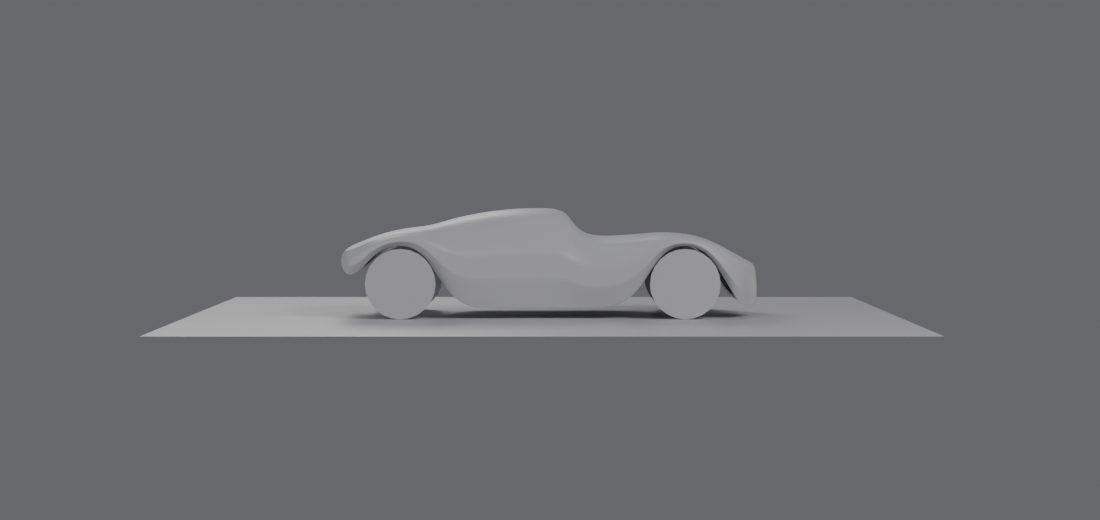
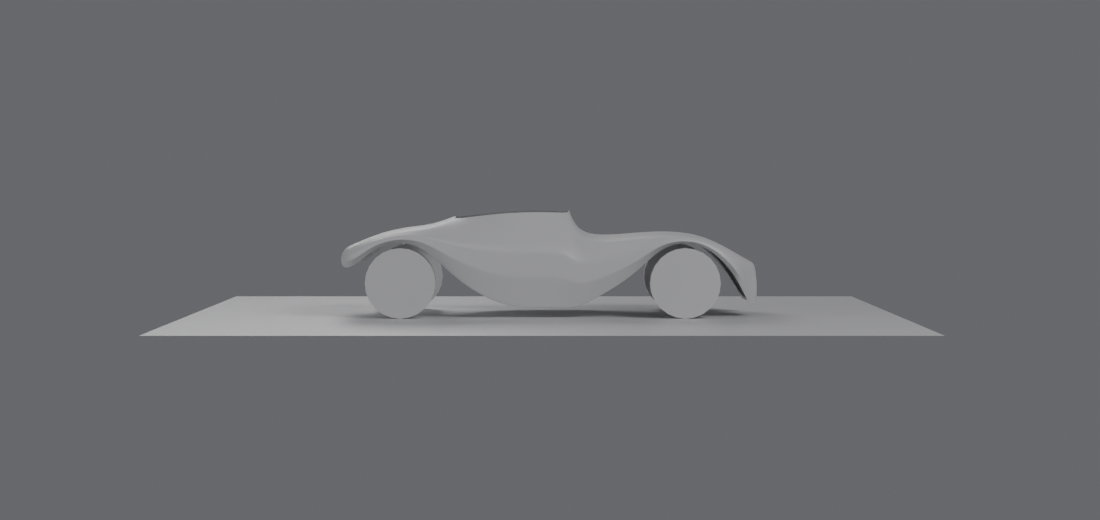
Open the cockpit, enlarge the arches, and mirror lessons into the repo
The reference body is an open shell whose character comes from its openings,
so the cage now leaves the band between the centreline and the top-surface
edge unbuilt through the cabin. That aperture is also what lets the canopy be
separate glass, which is the order the body is meant to be built in — glass
shrinkwrapped on after the body form settles. Loose vertices left by the
skipped faces are cleaned up rather than shipped.

Arches widen from 0.500 to 0.560 half-width, lifting wheel clearance from
26mm to 43mm.

Also mirrors the skill's workflow-lessons into docs/. The live copy sits in the
session container under /root/.claude/skills/synced/, which is reclaimed when
the session ends and has no version control or sync-back — so two days of
recorded conventions and corrections were sitting somewhere disposable. The
repo copy is the durable one.

Claude-Session: https://claude.ai/code/session_01Xx3q3FEn98y7dLvRCxTUeL

diff --git a/models/car_blockout.py b/models/car_blockout.py
@@ -40,8 +40,8 @@ PROPORTIONS = {
     "track_half_rear":  0.797,
 
     "sill":             0.091,
-    "arch_front":       (0.500, 0.629),  # half-width along X, height above sill
-    "arch_rear":        (0.500, 0.629),
+    "arch_front":       (0.560, 0.640),  # half-width along X, height above sill
+    "arch_rear":        (0.560, 0.640),
 
     # The fender turning inboard into the wheel well, so the arch has thickness
     # rather than ending on a bare edge.
@@ -65,6 +65,18 @@ RING = {"top_centre": 0, "top_edge": 1, "shoulder": 2,
 # and two thirds of the creased edges at 0.90 or above. Matching that profile
 # means the outline AND the character line are effectively hard, with only the
 # shoulder and top edge left partial.
+# The cockpit aperture: the band between the centreline and the top-surface
+# edge is left open through the cabin, so the canopy can be separate glass —
+# which is also the order the body is built in, glass shrinkwrapped on after
+# the body form settles.
+COCKPIT = (-0.90, 0.30)
+
+
+def _skip(x0, x1, ring):
+    lo, hi = COCKPIT
+    return ring == 0 and lo <= x0 <= hi and lo <= x1 <= hi
+
+
 CREASES = {
     RING["lip_inner"]: 1.00,
     RING["sill"]:      0.99,
@@ -192,7 +204,7 @@ def build(p=None, ground=True):
 
     me = bpy.data.meshes.new("body_side")
     bm = vehicle_cage.build_cage(STATIONS, lambda r: station_rings(r, p), CREASES,
-                                 cap_ends=True)
+                                 cap_ends=True, skip=_skip)
     bm.to_mesh(me)
     bm.free()
 

diff --git a/models/vehicle_cage.py b/models/vehicle_cage.py
@@ -34,7 +34,7 @@ def check_folds(stations, rings_fn):
     return bad
 
 
-def build_cage(stations, rings_fn, creases, cap_ends=False):
+def build_cage(stations, rings_fn, creases, cap_ends=False, skip=None):
     """Loft the stations into an all-quad cage and crease the named lines.
 
     `creases` maps ring index to crease value. The outline — the boundary loop
@@ -47,6 +47,12 @@ def build_cage(stations, rings_fn, creases, cap_ends=False):
 
     for s in range(len(grid) - 1):
         for r in range(len(grid[0]) - 1):
+            # `skip` leaves a hole rather than a surface — the cockpit
+            # aperture. The reference body is an open shell, not a closed
+            # volume: its character comes from the openings, and no amount of
+            # profile tuning makes a closed lozenge read the same way.
+            if skip and skip(stations[s]["x"], stations[s + 1]["x"], r):
+                continue
             bm.faces.new((grid[s][r], grid[s][r + 1],
                           grid[s + 1][r + 1], grid[s + 1][r]))
 
@@ -64,6 +70,10 @@ def build_cage(stations, rings_fn, creases, cap_ends=False):
             edge = bm.edges.get((grid[s][ring], grid[s + 1][ring]))
             if edge is not None:
                 edge[crease_layer] = value
+
+    loose = [v for v in bm.verts if not v.link_faces]
+    if loose:
+        bmesh.ops.delete(bm, geom=loose, context='VERTS')
 
     bmesh.ops.recalc_face_normals(bm, faces=bm.faces)
     return bm

diff --git a/docs/workflow-lessons.md b/docs/workflow-lessons.md
@@ -1,0 +1,149 @@
+# Workflow lessons — mirrored from the blender-car-modeler skill
+
+The live copy lives in the skill's `references/workflow-lessons.md`, inside the
+session container, which is reclaimed when the session ends. This mirror is the
+durable one. Copy it back into the skill at the start of a session, and mirror
+any new lessons back here before the session ends.
+
+---
+
+# This user's workflow, conventions, and lessons learned
+
+This file is the memory of everything learned working with this specific user in Blender. It starts mostly empty — that's expected on day one. The point isn't to fill it out in one sitting; it's to add one line whenever a real correction or preference actually comes up, so the next session doesn't repeat the same mistake or ask the same question twice.
+
+**How to add to this file:** when the user corrects an approach, states a convention, or flags something as a repeated mistake, add a short, concrete line to the right section below — their words or a close paraphrase, not a long writeup. If a section starts getting cluttered with near-duplicate entries, consolidate them into one clearer line instead of letting it sprawl.
+
+## Modeling conventions
+
+**Build order (stated 2026-09-01, their core method):**
+1. Body side first — the side profile/panel is the starting surface, not the hood or arches.
+2. Wheels in early as simple cylinders, purely to judge proportion and stance.
+3. Front, then back — modelled to meet the already-established side.
+4. Once the form is good: duplicate the body and shrinkwrap it to make the
+   windscreen. This is deliberate — glass that derives from the body surface
+   gives a correct reflection sweep and preserves the intended overall form,
+   rather than a separately-modelled screen that fights the body line.
+5. As the design matures, add wheel detail and lamp data.
+6. Basic interior, blocked in early so it can be iterated on later.
+
+Expect several iterations — the form is refined in loops, not in one pass.
+
+**Fewest possible edges — stated as general for ALL basic vehicles
+(2026-09-01).** Crease the OUTLINE — wheel-arch lip, sill, the design lines —
+and leave the surface between those outlines smooth and empty. Definition comes
+from creasing, never from adding loops. The reason is editability: the fewer
+points there are, the easier the form is to push around, and a form goes
+through many iterations.
+
+Corrected in the same session after getting this backwards: the stacked
+parallel loops visible along the sill of their cage were read as support loops,
+and support loops were added throughout. Measured afterwards, they bought
+nothing — arch crown 0.702 with them, 0.703 without, for 2.6x the faces. Do not
+add a loop to firm up an edge. Raise its crease.
+
+Also delete stations that do not change the form, but measure before removing:
+three came out of the PIX3L side with length, height and arch clearance
+identical to the millimetre, while one that looked equally redundant was
+carrying the canopy crown and cost 38mm of height when dropped.
+
+**Low poly + Subdivision Surface + Mirror is the default, always.** Build a
+light all-quad control cage and let Subsurf do the smoothing — do not model
+dense geometry directly. Mirror across the centreline rather than modelling
+both sides. Modifier order is Mirror then Subsurf, and the mirror needs
+clipping on so the centreline seam welds instead of splitting open under
+subdivision.
+
+**Their `body` object is an OPEN hard-surface shell, not a closed volume
+(2026-09-02).** Rendered on its own it has huge see-through wheel-arch cutouts,
+a thin blade sill, no roof — the canopy is separate `Glass` and
+`FR_WINDSCREEN` objects — and hard creased facets throughout. Building the body
+as a closed smooth lozenge and expecting it to read like the reference is
+hopeless: the character comes from the openings and the panel edges. Model the
+body with the cockpit open and the arches cut large, then add glass separately.
+
+**Their crease values, recovered from the raw .blend (2026-09-02):** 45% of
+edges creased, median 0.99, and 67% of creased edges at 0.90 or above, with a
+long soft tail from 0.09 to 0.6. They crease FAR harder than first assumed —
+the outline and the character line are effectively hard at 0.99/1.0, and only
+secondary lines get partial values. Earlier defaults of 0.85/0.55/0.50 were far
+too soft.
+
+Recovering them needed the raw file: their Blender is newer, so bpy loads the
+mesh with the crease attribute present but holding zero values, and the mesh
+will not even allocate a replacement layer. The route that worked was
+decompressing the .blend (zstd, multi-frame — needs read_across_frames) and
+reading the float array after the "crease_edge" string, verified by its length
+matching the edge count exactly. Rebuilding the mesh with from_pydata and
+mapping creases by vertex-pair sidesteps the unallocatable layer.
+
+**Measured off Concept_Model_WIP4.blend (2026-09-01) — their actual practice:**
+- Canopy crowns at the MIDDLE of the wheelbase, not forward of it. Do not
+  assume cab-forward on a mid-engine silhouette.
+- Body pinches in through the cabin and bulges at both arches (0.824 against
+  0.90 half-width), rather than running near-constant width.
+- Wheel outer face sits flush with the widest point of the body.
+- Their cage is NOT strictly all-quads: 177 faces carrying 2 triangles, 3
+  pentagons and one 9-gon. All-quad is a preference, not a rule to enforce.
+- Mirror clipping is OFF, with merge threshold 0.01. Subsurf runs 5/5.
+- Windscreen is a separate 18-face patch: Mirror, then Subsurf 5/5 with
+  boundary smoothing ALL (not preserve-corners), then Shrinkwrap onto `body`
+  using NEAREST_SURFACEPOINT / ON_SURFACE with a 1mm offset. This is the
+  "copy the body and shrinkwrap" step they described on day one.
+- Their working envelope is 4026mm long on a 2702mm wheelbase with 732/593
+  overhangs and a 1072mm roof — NOT the 4519mm Porsche envelope named earlier.
+  Ask which governs when the two conflict.
+
+## Recurring mistakes to avoid
+
+- Do not build body panels as triangulated n-gons or extruded flat profiles.
+  Corrected 2026-09-01: the first blockout attempt filled a closed outline and
+  triangulated it, which is unusable under Subsurf. Build a quad cage instead.
+- **Never model without reference.** Corrected 2026-09-01, and this was the
+  worst error of the session: three commits of confident geometry were built on
+  invented proportions (2650mm wheelbase against a real 911's 2450mm). Stating
+  "here are my assumed proportions" is NOT a substitute for reference. Ask for
+  reference images, or pull real published dimensions, before the first vertex.
+- Sample reference geometry in a WHEELBASE-CENTRED frame. Their file's origin
+  is not at the wheelbase centre (axles at -1.471/+1.231, midpoint -0.120), so
+  sampling against assumed axle positions shifted an entire profile 120mm along
+  the car relative to its own wheels.
+- Author ring heights as fractions of the span between the top surface and the
+  sill, never as fixed absolute heights. Fixed heights fold the cage wherever
+  the sill lifts into an arch — it happened twice, and both times check_folds
+  caught what the render did not.
+- Do not react to a render before checking the numbers. Twice on day one a
+  render was misread as a geometry bug when the geometry measured correct
+  (unlit cavities reading as holes, a cropped frame reading as a rotation).
+  Measure, then judge.
+
+## Preferences & workflow
+
+- Works in iterative loops and expects refinement passes, not one-shot results.
+- **Udin Optic is a generative design tool that ships as a Blender ADDON**,
+  backed by a subscription (udinbv.com / optic.udinbv.com). It is not an API
+  and never will be something Claude calls: it runs in a Blender GUI, on their
+  machine, under their subscription, and their tenant
+  (toyota-au.udinbv.com/optic/) sits behind Toyota SSO. The domain is also
+  blocked by this environment's egress allowlist. Do not ask again how to
+  "reach Udin" — the answer is that only they can run it.
+  The working loop: Claude builds and renders the blockout, they run the render
+  through Optic, they paste the generated design back into chat, Claude
+  executes it as geometry. tools/preview.py already emits clay views suitable
+  as Optic input.
+- End goal is animation via Higgsfield, so models should be built ready to hand
+  off for animation.
+- Sends reference as images pasted into chat — this works well and is the main
+  reference channel. Claude cannot fetch images from the web (egress blocked,
+  WebFetch is text-only), but CAN look up published dimensions via search.
+- Their Blender is NEWER than the bpy in this container (502.44 vs 5.0.1), so
+  their files open with "expect loss of data" and edge crease values arrive
+  empty — the attribute exists but holds 0 values against 412 edges. Topology,
+  proportions, modifiers and shrinkwrap settings all read fine. Ask them to run
+  tools/dump_creases.py and paste the output when crease values matter.
+- Anchors original designs to a real car's dimensions ("make this with roughly
+  the Porsche dimensions") — take the envelope from the real car, the styling
+  from the reference.
+
+## Concept-mode notes
+
+*(Specific psychedelic/sci-fi/sacred-geometry choices this user tends to favor once they're established — particular color combinations, motifs they gravitate to or avoid, past concept pieces worth remembering the direction of.)*
